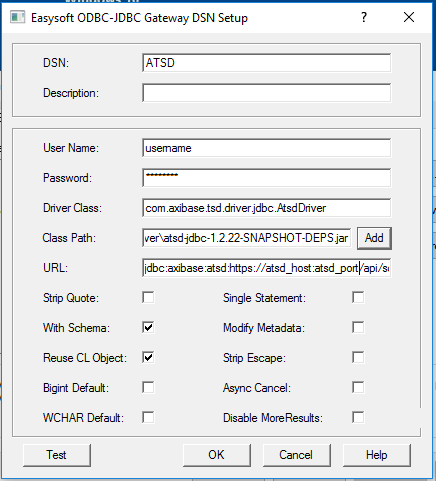
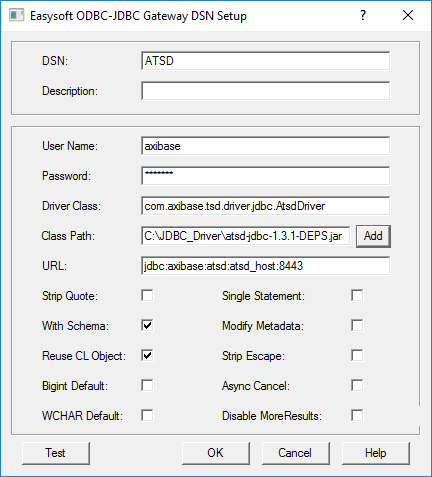
Apply remarks

diff --git a/integration/alteryx/README.md b/integration/alteryx/README.md
@@ -17,8 +17,8 @@ basket. The weights are stored as fractions of 1000. The CPI is tracked from 201
 2017 and uses Year 2016 values as the baseline. Weight values are available only for
 year 2017.
 
-To load the data into ATSD, login into the database web interface and submit these commands on the
-**Metrics→Data Entry** page.
+To load the data into ATSD, login into the database web interface and submit
+these commands on the **Metrics > Data Entry** page.
 
 ![](images/metrics_entry.png)
 
@@ -45,8 +45,8 @@ To load the data into ATSD, login into the database web interface and submit the
 - Configure the datasource as described [here](../odbc/README.md#configure-odbc-data-source).
 
 - Add `tables` property into the DSN URL to filter metrics by name in the Query
-  Builder. For example, `tables=*` exposes all metrics whereas `tables=infla*` shows
-  all metrics that start with 'infla' substring.
+  Builder. For example, `tables=*` exposes all metrics whereas `tables=infla*`
+  shows all metrics that start with 'infla' substring.
 
   ```text
   jdbc:axibase:atsd:ATSD_HOST:8443;tables=*
@@ -74,22 +74,21 @@ text manually.
 
 - Table names visible in the **Tables** tab satisfy the `tables` pattern
   specified in the DSN URL. Click the **Refresh** button to reload the list, if
-  neccessary.
+  necessary.
 
   ![](images/metrics_list.png)
 
 - In the **Visual Query Tab**, you can specify particular columns and add optional
   sorting and grouping to preview and prepare your
-  data before processing it in workflow. Below is a SQL query and a corresponding configuration.
+  data before processing it in workflow. Below is a SQL query and a corresponding
+  configuration.
 
   ```sql
-   Select
-      inflation.cpi.categories.price.datetime,
-      Sum(inflation.cpi.categories.price.value) As Sum_value
-   From inflation.cpi.categories.price
-   Group By inflation.cpi.categories.price.datetime
-   Having Sum(inflation.cpi.categories.price.value) > 1010
-   Order By inflation.cpi.categories.price.datetime
+   SELECT datetime, sum(value) AS sum_value
+       FROM inflation.cpi.categories.price
+       GROUP BY datetime
+       HAVING sum_value > 1010
+       ORDER BY datetime
   ```
 
   ![](images/visual_builder.png)
@@ -97,7 +96,8 @@ text manually.
 - The **SQL Editor** allows you to review and modify pre-built queries or write
   your own queries.
 
-- The **Test Query** button strips the `WHERE` clause from the query and sends only the remaining `SELECT` expression to the database for validation.
+- The **Test Query** button truncates the query and sends only the remaining
+  `SELECT ... FROM ...` expression to the database for validation.
 
   ![](images/sql_editor.png)
 
@@ -143,9 +143,10 @@ The workflow consists of the following steps (nodes):
 
 4. **Filter** tool. Follow the same procedure as above.
 
-5. **Join** tool. Join prices and weights by `tags.category` field. Deselect fields as shown
-   on the image. Rename `value` fields for `inflation.cpi.categories.price` and
-   `inflation.cpi.categories.weight` to `price` and `weight` respectively.
+5. **Join** tool. Join prices and weights by `tags.category` field. Deselect
+   fields as shown on the image. Rename `value` fields for
+   `inflation.cpi.categories.price` and `inflation.cpi.categories.weight` to
+   `price` and `weight` respectively.
 
    ![](images/join.png)
 
@@ -157,8 +158,9 @@ The workflow consists of the following steps (nodes):
    > ![](images/join_output.png)
 
 6. **Formula** tool. Connect its input to the **J** (_inner join_)
-   output of the 3rd node. Next, create a new column named `value` to store the result.
-   Fill in the expression to calculate it, and specify the correct data type.
+   output of the **Join** node. Next, create a new column named `value` to
+   store the result. Fill in the expression to calculate it, and specify the
+   correct data type.
 
    ![](images/add_column.png)
 
@@ -180,9 +182,8 @@ The workflow consists of the following steps (nodes):
    ![](images/entity.png)
 
 10. **Output Data** tool. Choose ODBC Connection as before and enter a name for
-    the _existing_ metric, in this case `inflation.cpi.composite.price`. Create a new metric in ATSD if necessary.
-    Edit **Output Options** and **Table/FieldName SQL Style** options in the
-    configuration dialog.
+    the new metric, in this case `inflation.cpi.composite.price`.
+    Edit **Output Options** in the configuration dialog.
 
     ![](images/metric_name.png)
 

diff --git a/integration/odbc/README.md b/integration/odbc/README.md
@@ -2,9 +2,9 @@
 
 ### Overview
 
-This document describes how to install an ODBC-JDBC bridge on a Windows machine. The purpose of the bridge is to serve as a data link between the Axibase Time Series Database and Windows applications that do not support [JDBC](https://docs.oracle.com/javase/tutorial/jdbc/overview/) driver technology. 
+This document describes how to install an ODBC-JDBC bridge on a Windows machine. The purpose of the bridge is to serve as a data link between the Axibase Time Series Database and Windows applications that do not support [JDBC](https://docs.oracle.com/javase/tutorial/jdbc/overview/) driver technology.
 
-The bridge intercepts SQL queries from the client applications via the Microsoft [ODBC](https://docs.microsoft.com/en-us/sql/odbc/microsoft-open-database-connectivity-odbc) protocol and transmits the queries into ATSD using the [ATSD JDBC driver](https://github.com/axibase/atsd-jdbc). 
+The bridge intercepts SQL queries from the client applications via the Microsoft [ODBC](https://docs.microsoft.com/en-us/sql/odbc/microsoft-open-database-connectivity-odbc) protocol and transmits the queries into ATSD using the [ATSD JDBC driver](https://github.com/axibase/atsd-jdbc).
 
 ### Downloads and Pre-requisites
 
@@ -63,7 +63,7 @@ A license manager window will appear after exiting from the installation wizard.
 
 ![](images/easysoft_activate_5.PNG)
 
-  Also a window with the new license will be displayed in the License Manager 
+  Also a window with the new license will be displayed in the License Manager
 
 ![](images/easysoft_activate_6.PNG)
 
@@ -84,12 +84,12 @@ Choose the **ODBC-JDBC Gateway**, click **Finish**
 Enter following settings in the DSN Setup window:
 
 ```
-DSN: ATSD
-User name: <atsd login>
-Password: <atsd password>
-Driver class: com.axibase.tsd.driver.jdbc.AtsdDriver
-Class Path: <path to ATSD JDBC Driver, for example C:\atsd-jdbc-1.2.22-SNAPSHOT-DEPS.jar>
-URL: <ATSD URL, for example jdbc:axibase:atsd:https://atsd_host:8443/api/sql;trustServerCertificate=true>
+DSN         :   ATSD
+User name   :   <atsd login>
+Password    :   <atsd password>
+Driver class:   com.axibase.tsd.driver.jdbc.AtsdDriver
+Class Path  :   <path to ATSD JDBC Driver, for example C:\JDBC_Driver\atsd-jdbc-1.3.1-DEPS.jar>
+URL         :   <ATSD URL, for example jdbc:axibase:atsd:atsd_host:8443>
 ```
 
 Refer to ATSD JDBC [documentation](https://github.com/axibase/atsd-jdbc#jdbc-connection-properties-supported-by-driver)  for additional details about the URL format and the driver parameters.
